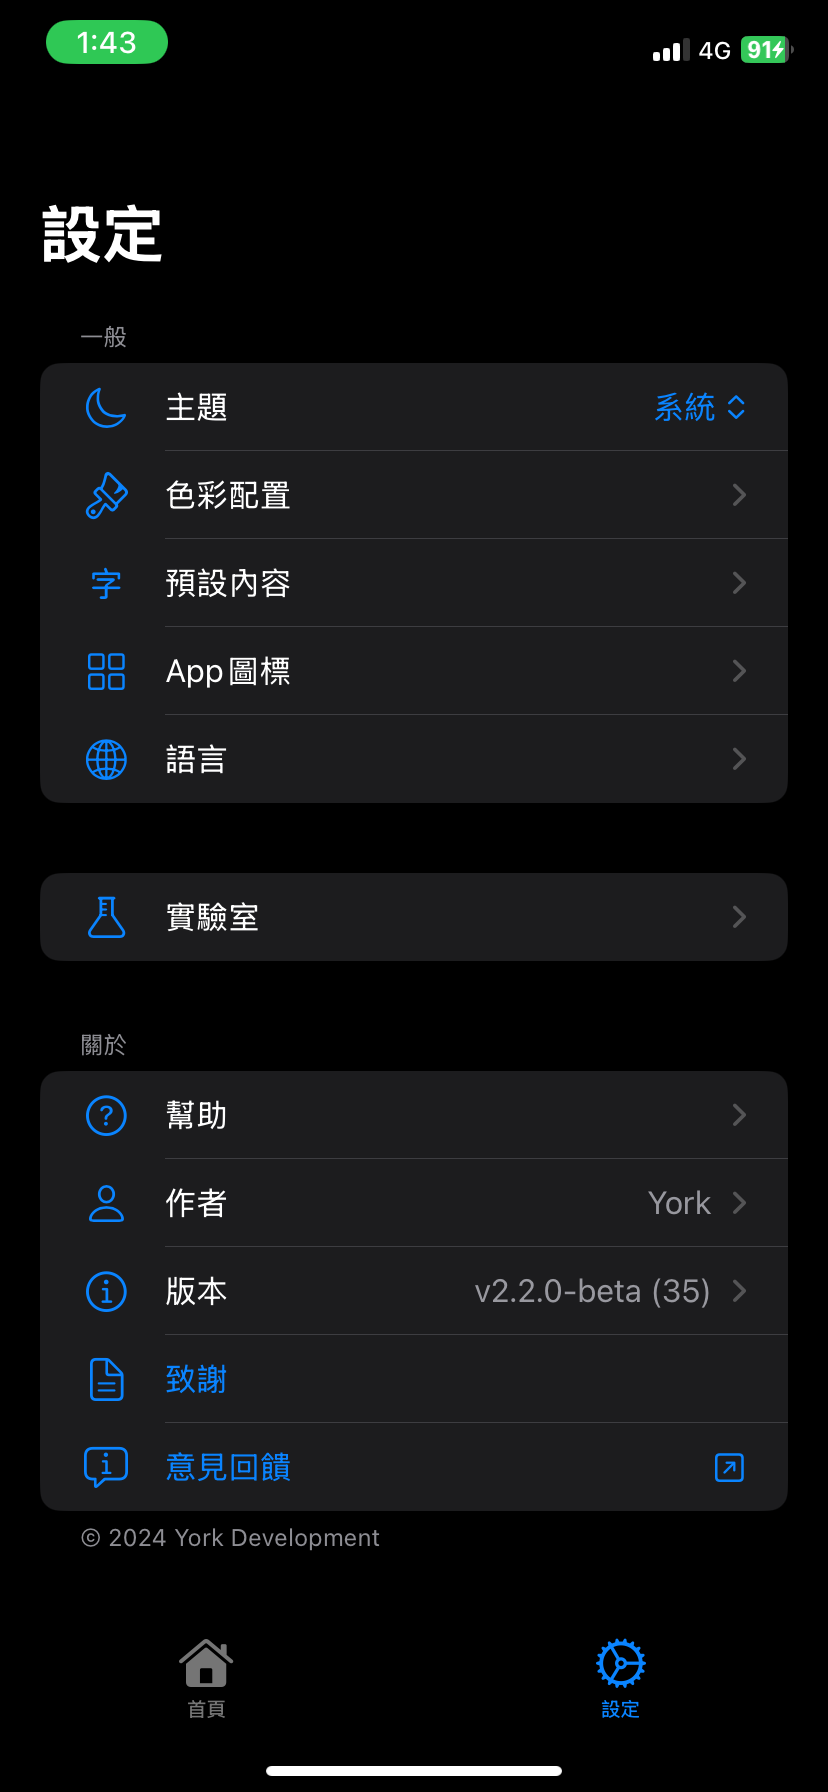
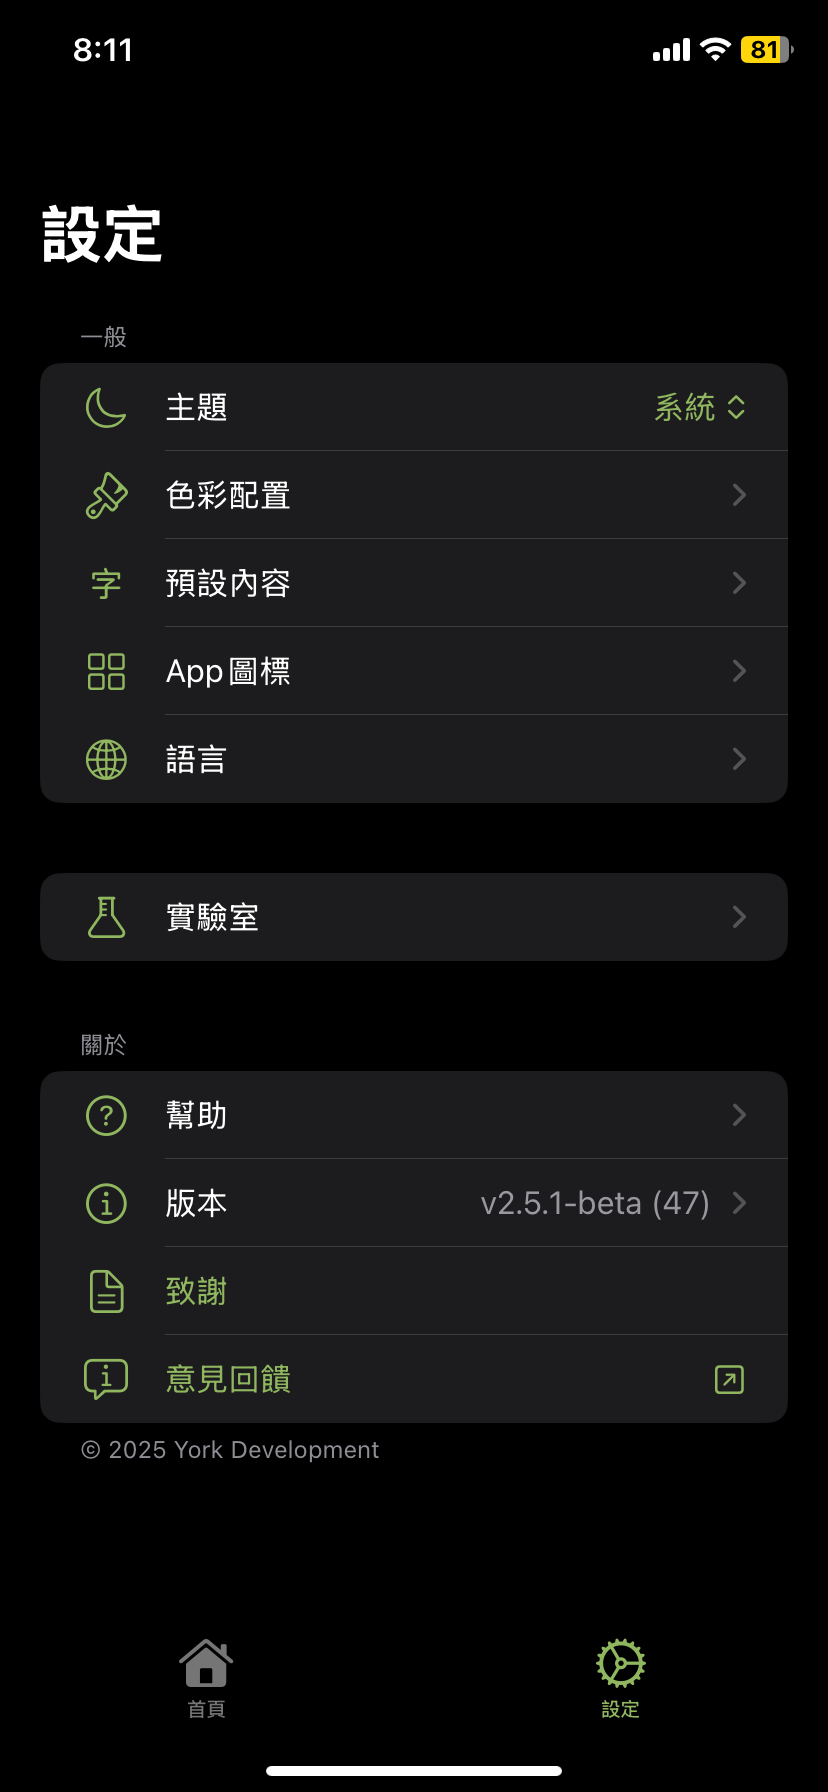
v2.5.1-beta Update

diff --git a/src/YorkNotify/SettingsTabView.swift b/src/YorkNotify/SettingsTabView.swift
@@ -59,7 +59,7 @@ struct SettingsTabView: View {
                     }
                 }
 
-                Section(header: Text("About"), footer: Text("© 2024 York Development")) {
+                Section(header: Text("About"), footer: Text("© 2025 York Development")) {
                     NavigationLink(destination: HelpView()) {
                         Label("Help", systemImage: "questionmark.circle")
                     }

diff --git a/index.html b/index.html
@@ -341,7 +341,7 @@
   <!-- Footer -->
   <footer class="bg-gray-900 py-6">
     <div class="container mx-auto px-6 text-center text-gray-500">
-      <p>&copy; 2024 York Development. Made with ❤ in Taiwan.</p>
+      <p>&copy; 2025 York Development. Made with ❤ in Taiwan.</p>
     </div>
   </footer>
 

diff --git a/README.md b/README.md
@@ -164,6 +164,6 @@ _Thank you for taking the time to read and for any support you can offer. Togeth
 
 ***
 
-© 2024 York Development
+© 2025 York Development
 
 Made with :heart: and Swift in Taiwan.
